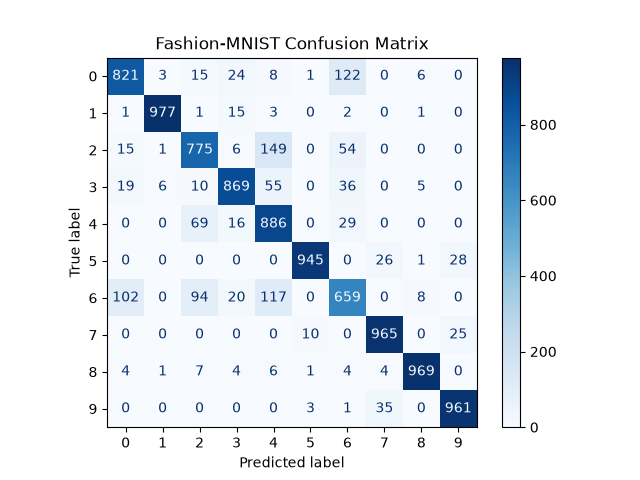
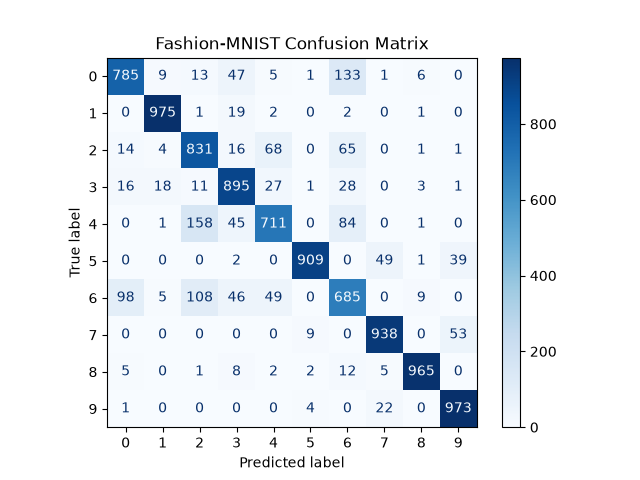
teammate: scale to -1..1

diff --git a/src/preprocess.py b/src/preprocess.py
@@ -13,7 +13,7 @@ with open("params.yaml") as f:
 
 
 def normalize(images):
-    return images / 255.0
+        return (images / 255.0 - 0.5) / 0.5
 
 
 raw = np.load("data/raw/fashion_mnist.npz")
